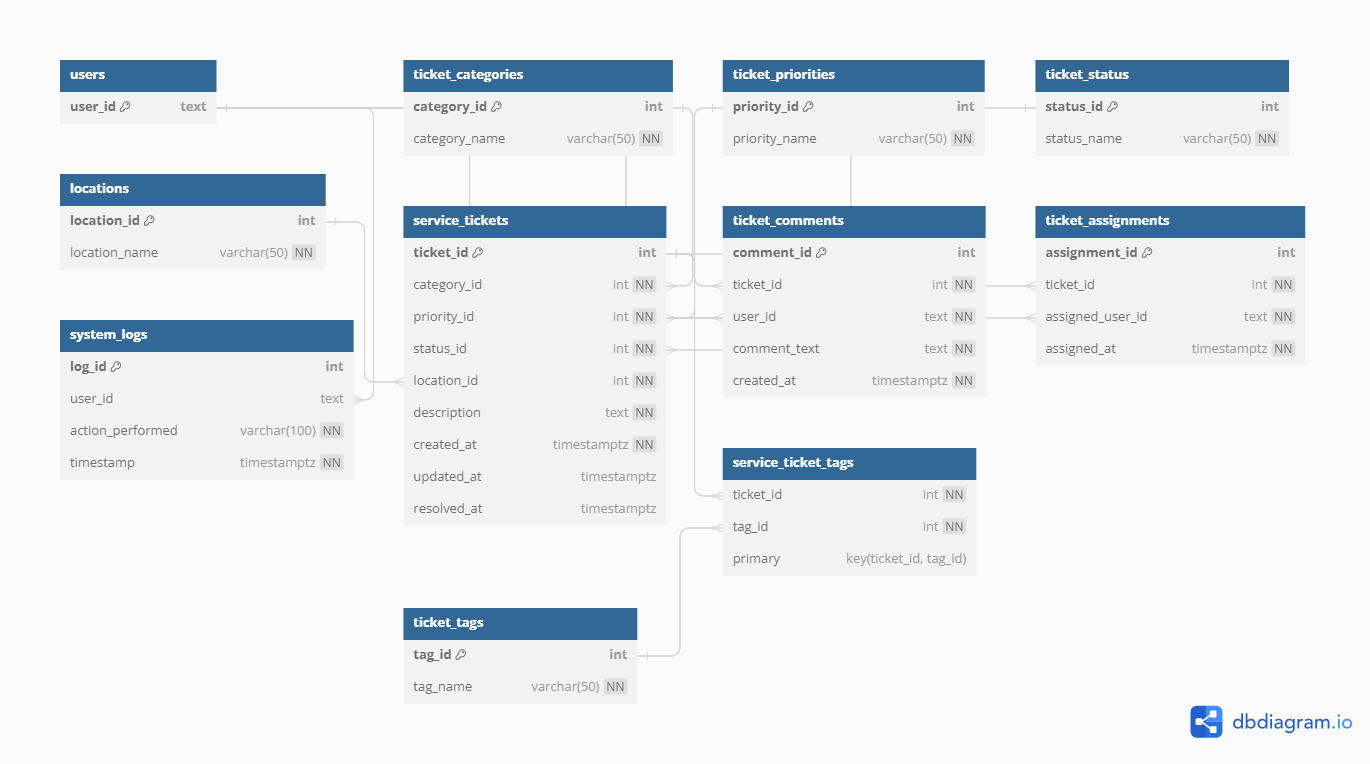
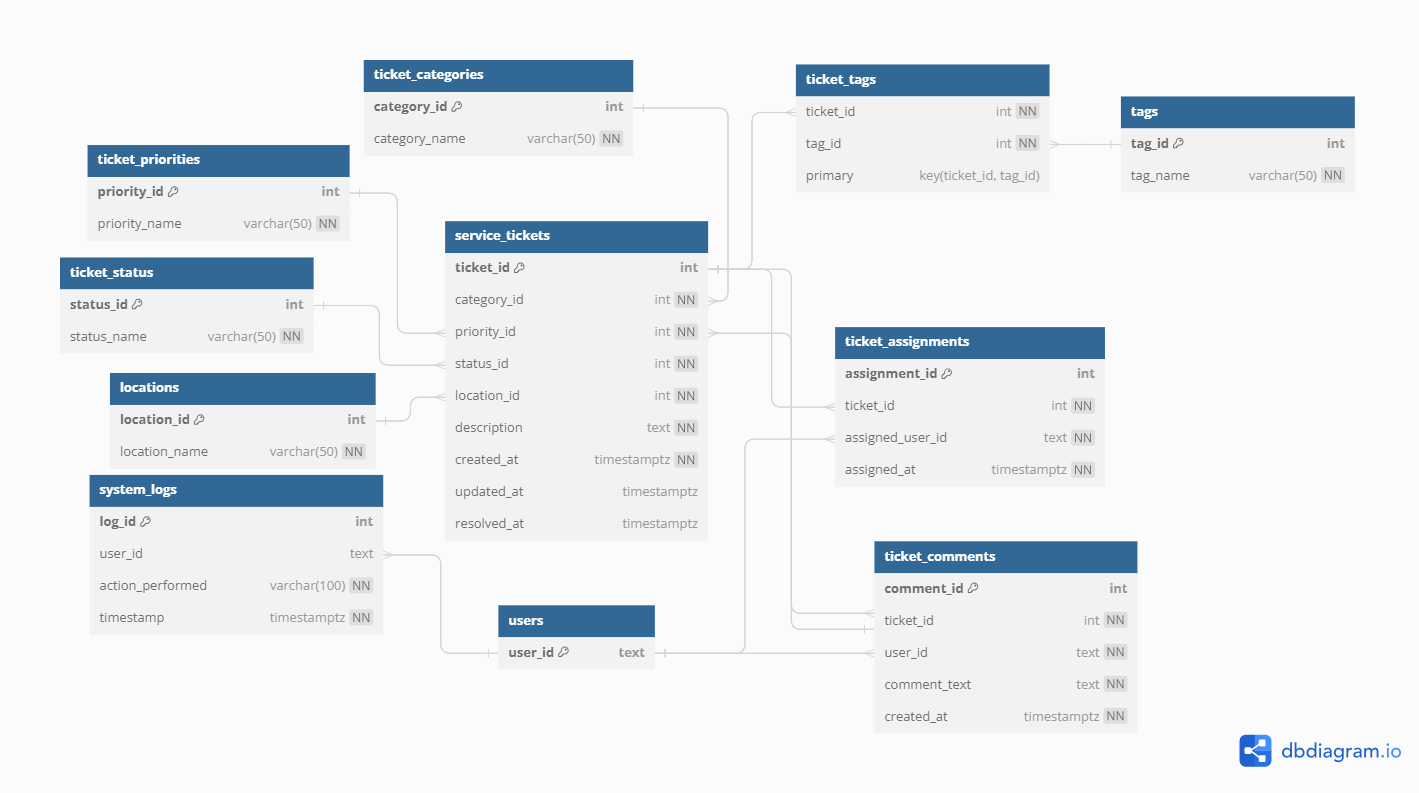
documentation update
- added triggers and new functions to doc
- updated diagram

diff --git a/database/useCase2/documentation.md b/database/useCase2/documentation.md
@@ -1,27 +1,6 @@
-# Use case 2 Documentation
+# Use Case 2 Documentation
 
 ## Database Functions
-
-### create_service_ticket
-
-#### Parameters
-
-- **p_user_id (TEXT):** The ID of the user creating the service ticket.
-- **p_category_id (INT):** The ID of the ticket category.
-- **p_priority_id (INT):** The ID of the ticket priority.
-- **p_status_id (INT):** The ID of the ticket status.
-- **p_location_id (INT):** The ID of the issue location.
-- **p_description (TEXT):** The description of the service ticket.
-
-#### Returns
-
-- **VOID**
-
-#### Description
-
-Creates a new service ticket in the `app_service_support.service_tickets` table.
-
----
 
 ### add_ticket_comment
 
@@ -99,6 +78,56 @@ Retrieves all comments for a specific service ticket.
 #### Description
 
 Retrieves all service tickets assigned to a specific user.
+
+---
+
+### add_ticket_tag
+
+#### Parameters
+
+- **p_ticket_id (INT):** The ID of the service ticket.
+- **p_tag_name (VARCHAR(50)):** The name of the tag.
+
+#### Returns
+
+- **TEXT:** A success message if the tag is added successfully, otherwise a message indicating existing association.
+
+#### Description
+
+Adds a new record to the `app_service_support.ticket_tags` table, associating a tag with a service ticket.
+
+---
+
+### remove_ticket_tag
+
+#### Parameters
+
+- **p_ticket_id (INT):** The ID of the service ticket.
+- **p_tag_name (VARCHAR(50)):** The name of the tag.
+
+#### Returns
+
+- **TEXT:** A success message if the tag is removed successfully, deleted successfully, or not associated. 
+
+#### Description
+
+Removes a tag from a service ticket and deletes it if not associated with any other ticket.
+
+---
+
+## Triggers
+
+### notify_ticket_change
+
+#### Description
+
+A trigger function that logs changes to the `app_service_support.service_tickets` table. It logs when a new ticket is added or an existing ticket is updated.
+
+### notify_comment_change
+
+#### Description
+
+A trigger function that logs changes to the `app_service_support.ticket_comments` table. It logs when a comment is added, updated, or deleted.
 
 ---
 
